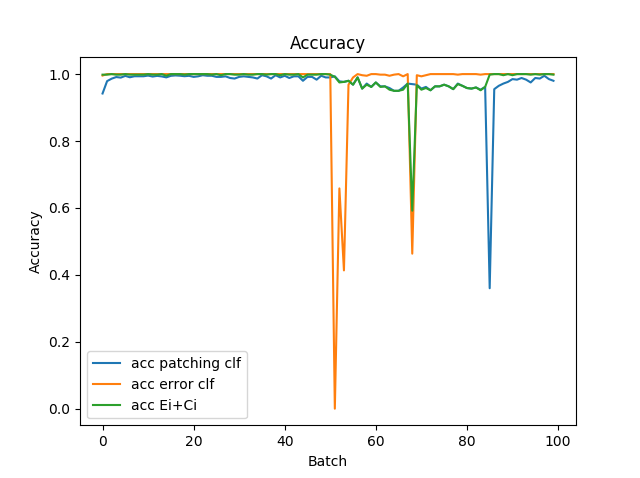
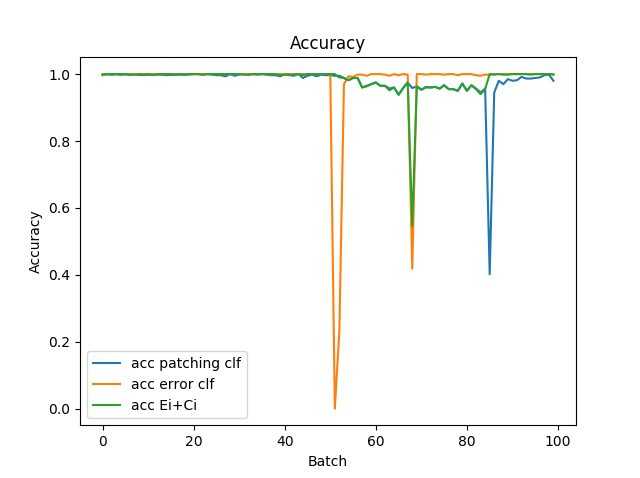
- improve decision tree

Changed region(s): [[0.1562, 0.1464, 0.875, 0.7908], [0.625, 0.2343, 0.6562, 0.5565], [0.75, 0.3515, 0.7812, 0.5858]]

diff --git a/DecisionTree/mnist_decision_tree_2.py b/DecisionTree/mnist_decision_tree_2.py
@@ -8,6 +8,7 @@ from keras.preprocessing.image import ImageDataGenerator
 import sys
 from vfdt import *
 from sklearn.metrics import accuracy_score
+from sklearn.utils import shuffle
 
 filepath_train = Path("../mnist/train.arff")
 filepath_test = Path("../mnist/test.arff")
@@ -84,6 +85,7 @@ for i in range(nbBaseBatches):
     X_gen, y_gen = next(gen)
     X_gen = X_gen.reshape(-1, 784)
     y_gen_E = np.zeros(sizeOneBatch)
+    
     for X, y in zip(X_gen, y_gen_E):
         tree_e.update(X, y)
     for X, y in zip(X_gen, y_gen):
@@ -105,11 +107,19 @@ for i in range(nbBaseBatches):
 for i in range(nbBaseBatches, nbBatches):
     print(i)
 
-    X_gen, y_gen = next(gen)
-    X_gen, y_gen = flip_images(X_gen, y_gen)
-    y_gen = y_gen.reshape(-1,)
+    X_gen_org, y_gen_org = next(gen)
+    X_gen = None
+    y_gen = None
+    doFlip = i >= nbBatches / 2
+    if doFlip:
+        X_gen, y_gen = flip_images(X_gen_org, y_gen_org)
+        y_gen = y_gen.reshape(-1,)
+        y_gen_E = np.full(len(y_gen), 1.0)
+    else:
+        X_gen = X_gen_org.reshape(-1, 784)
+        y_gen = y_gen_org
+        y_gen_E = np.zeros(len(y_gen_org))
     # evaluate
-    y_gen_E = np.full(sizeOneBatch, 1.0)
     predict_E = tree_e.predict(X_gen)
     acc_E = accuracy_score(predict_E, y_gen_E)
     print(acc_E)
@@ -121,10 +131,20 @@ for i in range(nbBaseBatches, nbBatches):
     indices.append(i)
 
     # training
-    for X, y in zip(X_gen, y_gen_E):
-        tree_e.update(X, y)
     for X, y in zip(X_gen, y_gen):
         tree_p.update(X, y)
 
-np.savez("mnist_horffding.npz", acc=accArray, acc_E=accArray_E, indices=indices)
+    if doFlip:
+        X_combine = np.concatenate((X_gen_org.reshape(-1, 784), X_gen))
+        y_E_org = np.zeros(len(X_gen))
+        y_combine = np.concatenate((y_E_org, y_gen_E))
+        X_shuffled, y_shuffled = shuffle(X_combine, y_combine)
+        for X, y in zip(X_shuffled, y_shuffled):
+            tree_e.update(X, y)
+    else:
+        for X, y in zip(X_gen, y_gen_E):
+            tree_e.update(X, y)
+
+
+np.savez("mnist_hoeffding.npz", acc=accArray, acc_E=accArray_E, indices=indices)
 # https://github.com/doubleplusplus/incremental-decision-tree-CART-python/blob/master/vfdt.py
